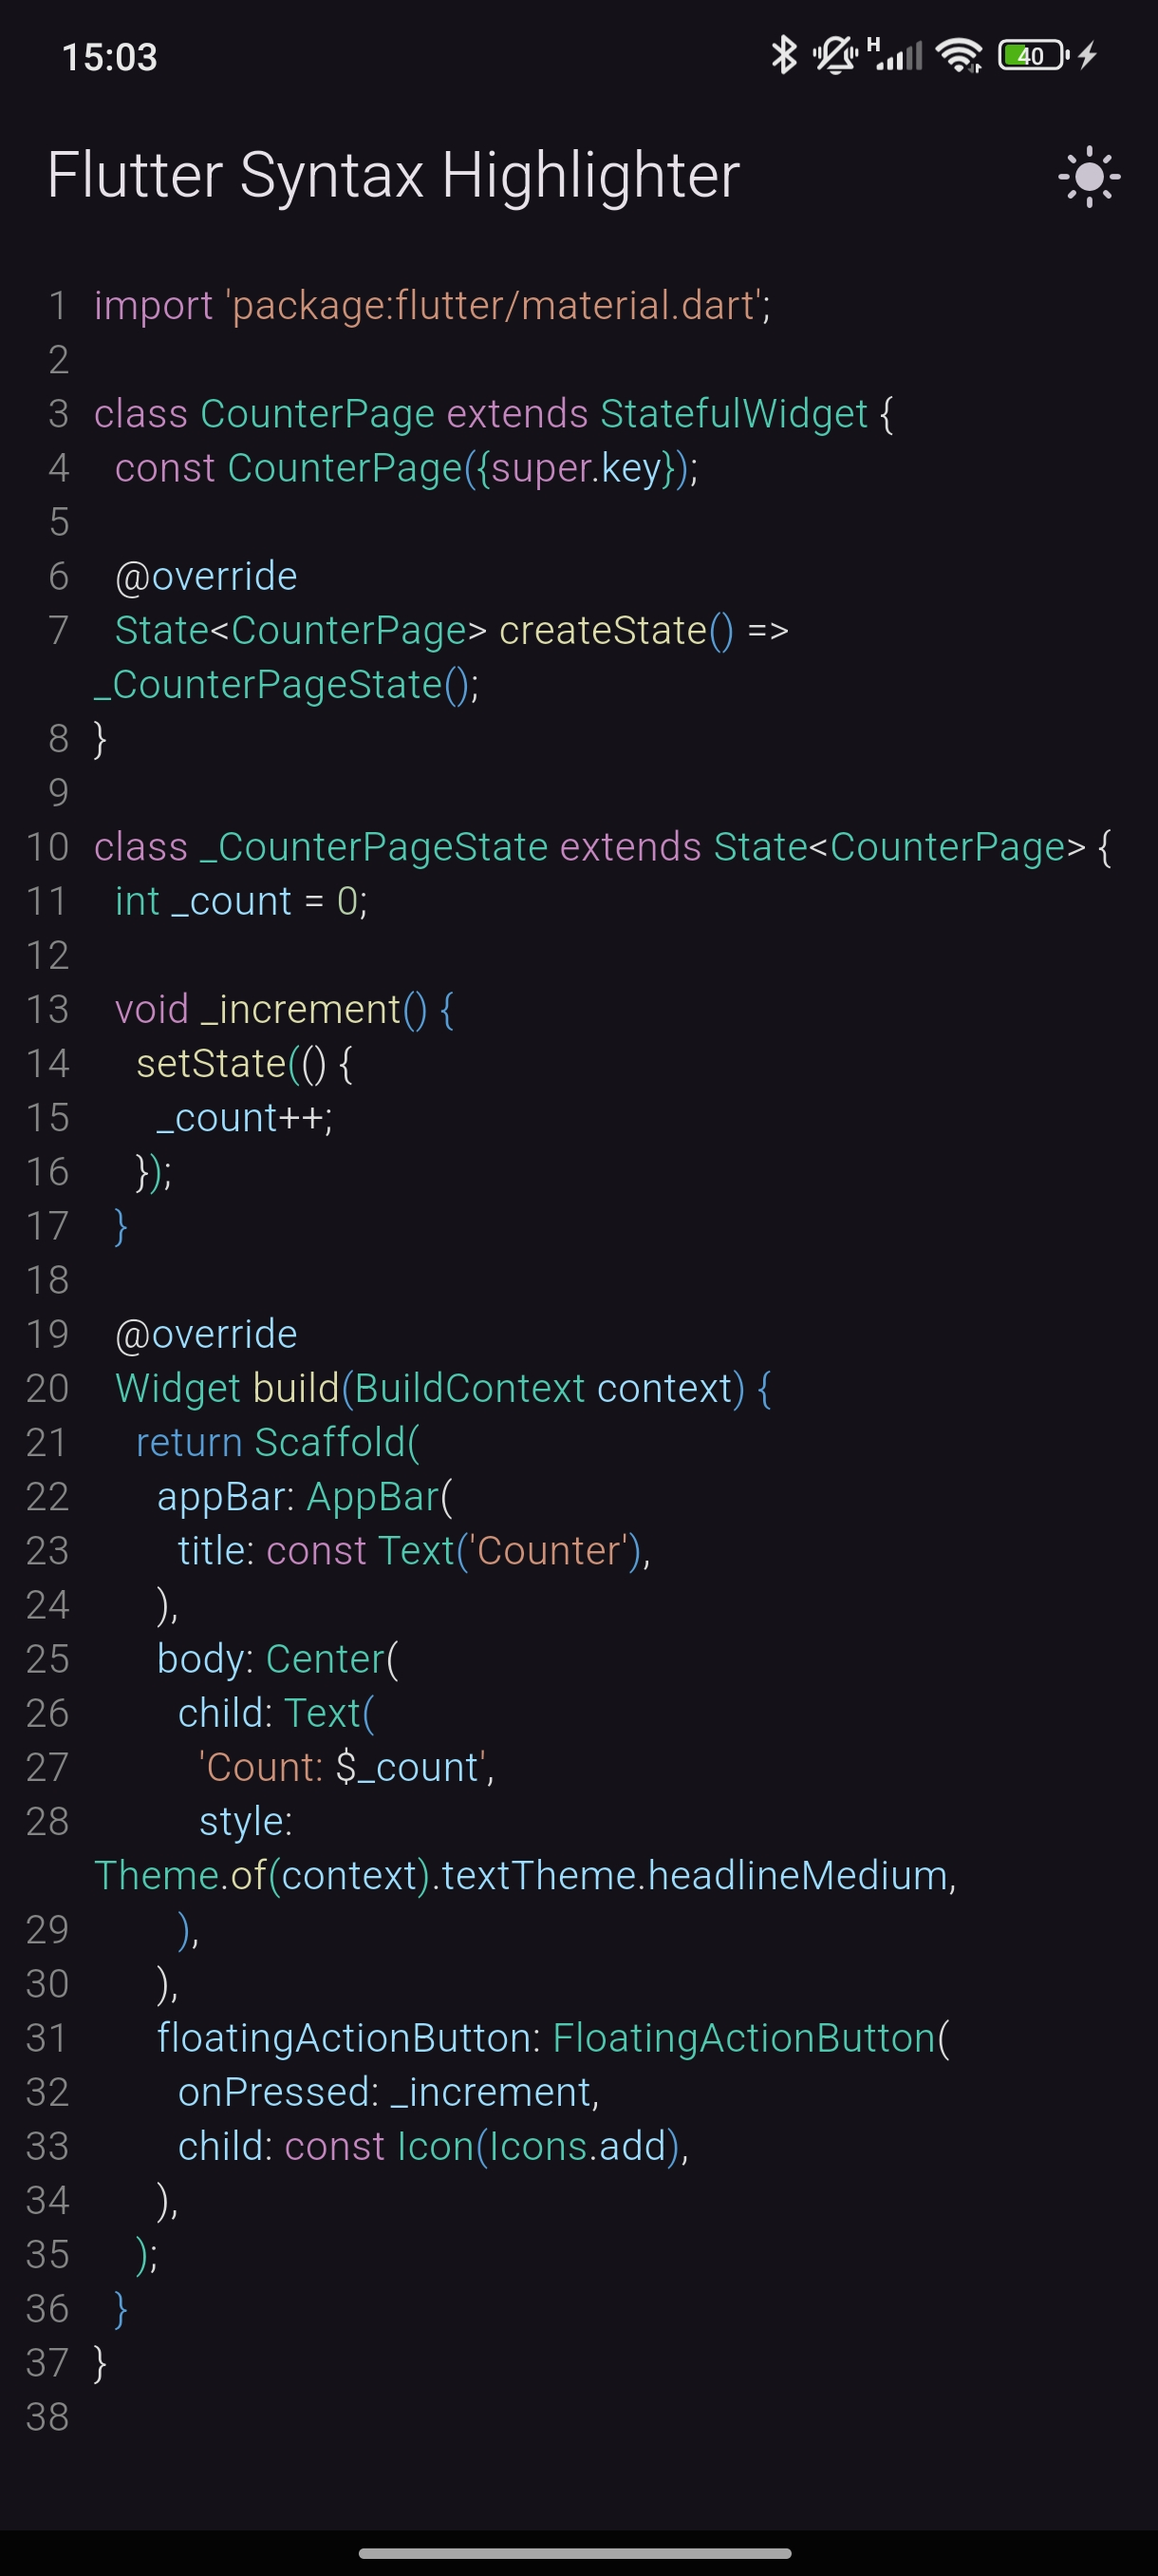
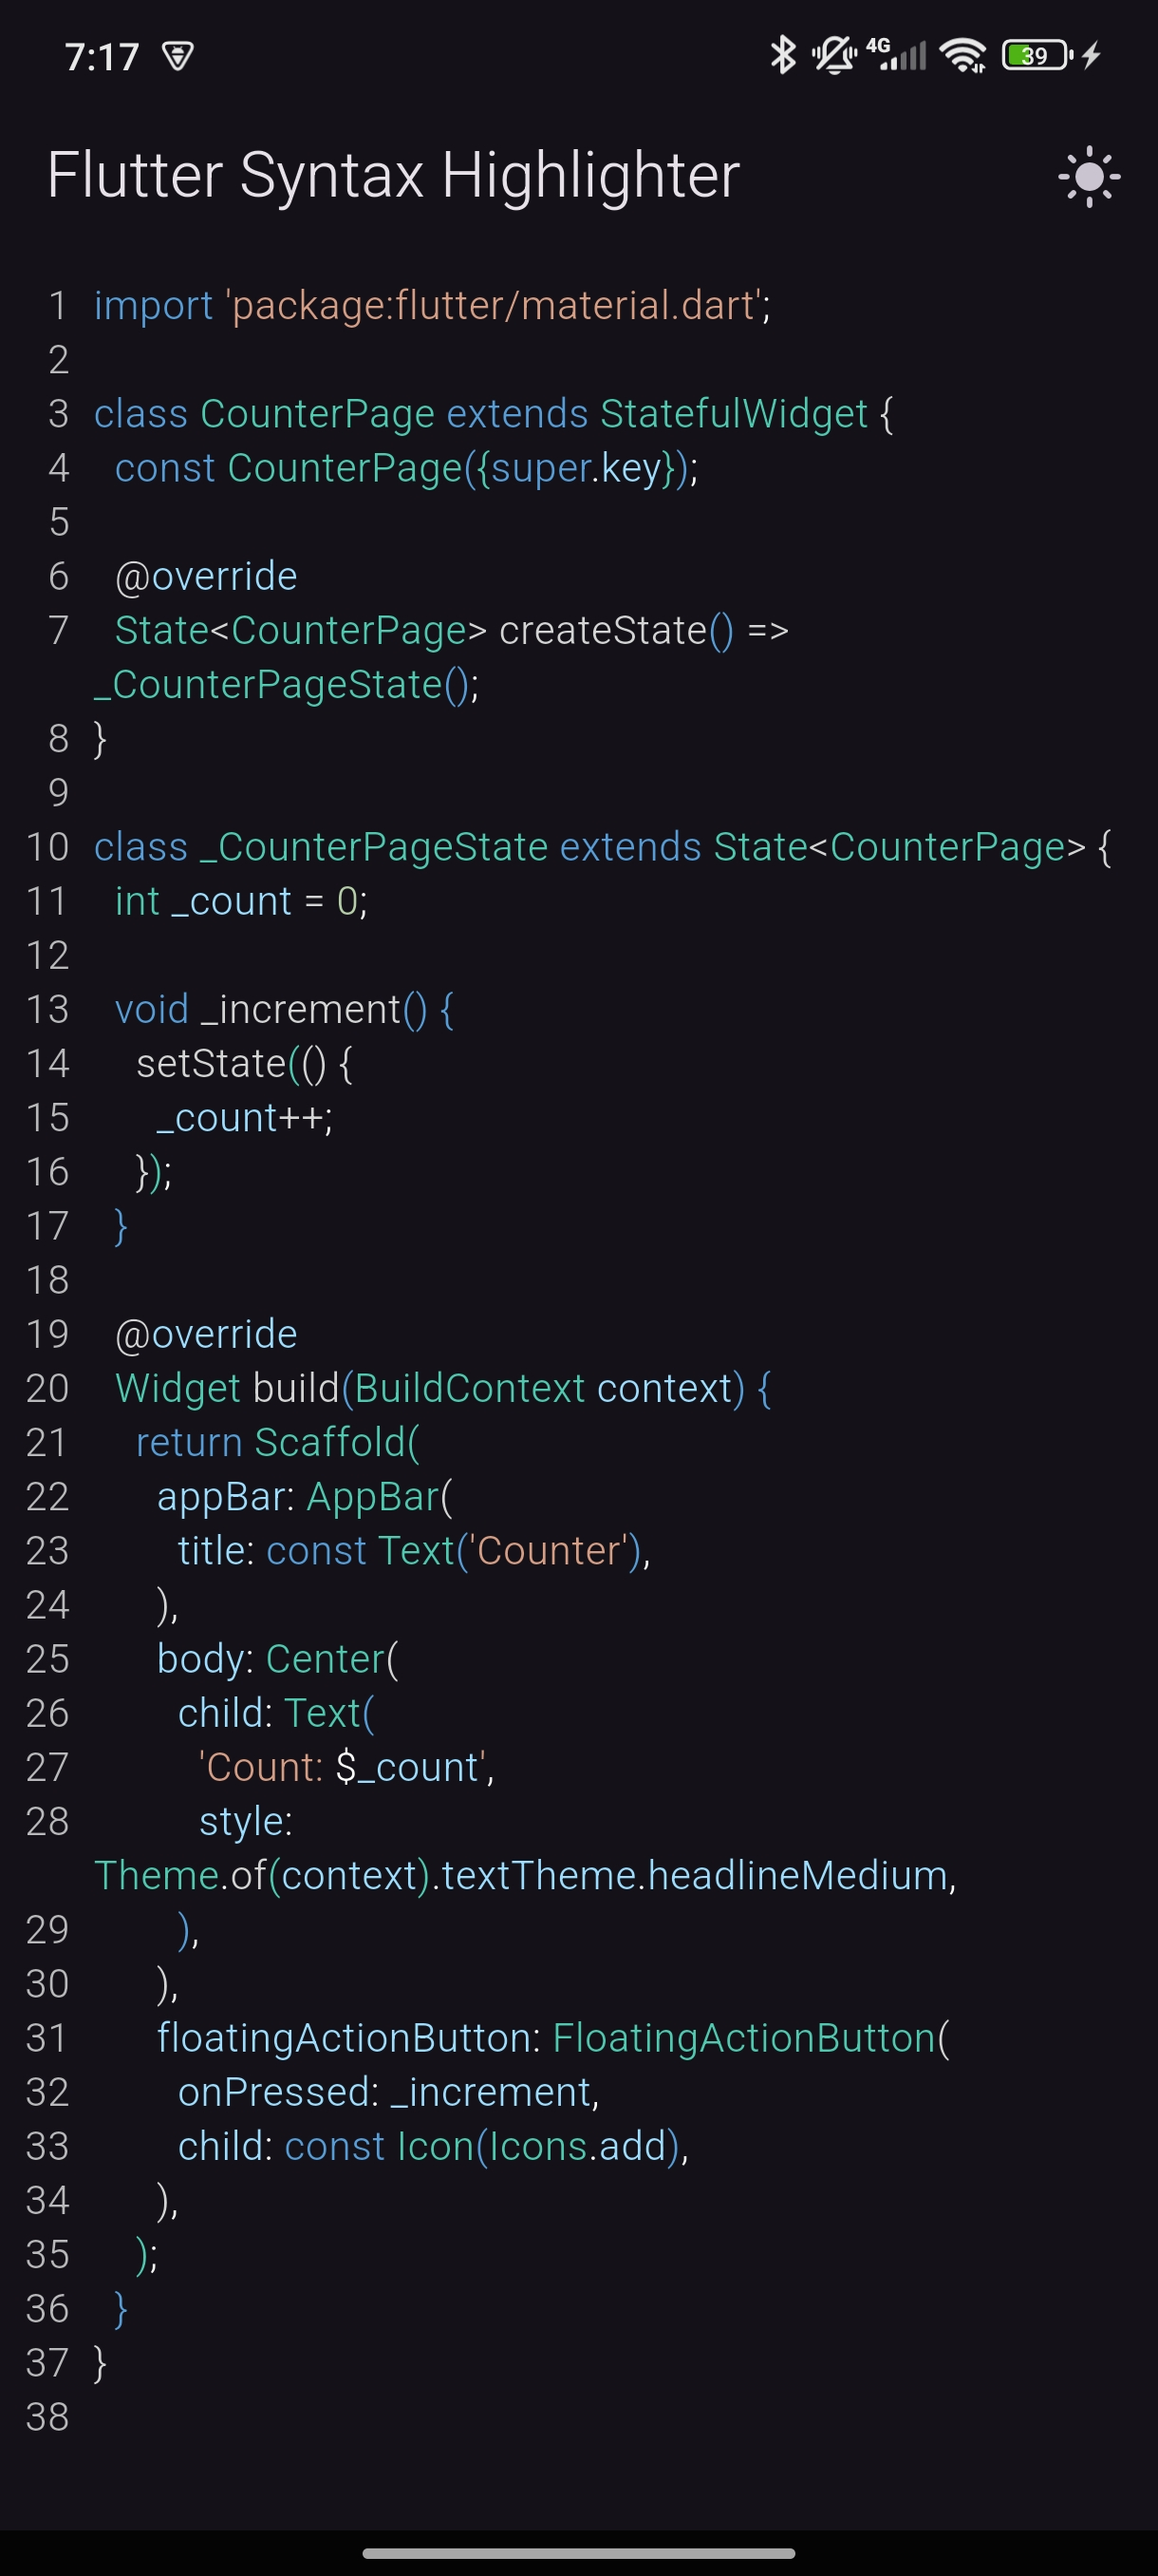
fix: corrected default VS Code theme colors
- Fixed the color scheme for the default light and dark VS Code themes.

diff --git a/lib/src/themes/vs_code_dark_theme.dart b/lib/src/themes/vs_code_dark_theme.dart
@@ -1,25 +1,24 @@
 import 'package:flutter/material.dart';
-
 import 'package:flutter_syntax_highlighter/src/syntax_color_schema.dart';
 
 class VSCodeDarkTheme extends SyntaxColorSchema {
   const VSCodeDarkTheme()
-    : super(
-        baseStyle: const Color(0xFFDCDCDC),
-        lineNumberStyle: const Color(0xFF858585),
-        keywordStyle: const Color(0xFF569CD6),
-        specialKeywordStyle: const Color(0xFFC586C0),
-        storageModifierStyle: const Color(0xFF569CD6),
-        typeStyle: const Color(0xFF4EC9B0),
-        functionStyle: const Color(0xFFDCDCAA),
-        literalStyle: const Color(0xFF569CD6),
-        commentStyle: const Color(0xFF6A9955),
-        punctuationStyle: const Color(0xFFDCDCDC),
-        stringStyle: const Color(0xFFCE9178),
-        numberStyle: const Color(0xFFB5CEA8),
-        bracket1Style: const Color(0xFFDCDCDC),
-        bracket2Style: const Color(0xFF569CD6),
-        bracket3Style: const Color(0xFF4EC9B0),
-        variableStyle: const Color(0xFF9CDCFE),
-      );
+      : super(
+          baseStyle: const Color(0xFFD4D4D4),
+          lineNumberStyle: const Color.fromARGB(179, 255, 255, 255),
+          keywordStyle: const Color(0xFF569CD6),
+          specialKeywordStyle: const Color(0xFF569CD6),
+          storageModifierStyle: const Color(0xFF569CD6),
+          typeStyle: const Color(0xFF4EC9B0),
+          functionStyle: const Color(0xFFD4D4D4),
+          literalStyle: const Color(0xFFD4D4D4),
+          commentStyle: const Color(0xFF6A9955),
+          punctuationStyle: const Color(0xFFFFFFFF),
+          stringStyle: const Color(0xFFD69D85),
+          numberStyle: const Color(0xFFB5CEA8),
+          bracket1Style: const Color(0xFFD4D4D4),
+          bracket2Style: const Color(0xFF569CD6),
+          bracket3Style: const Color(0xFF4EC9B0),
+          variableStyle: const Color(0xFF9CDCFE),
+        );
 }

diff --git a/lib/src/themes/vs_code_light_theme.dart b/lib/src/themes/vs_code_light_theme.dart
@@ -5,13 +5,13 @@ class VSCodeLightTheme extends SyntaxColorSchema {
   const VSCodeLightTheme()
     : super(
         baseStyle: const Color(0xFF000000),
-        lineNumberStyle: const Color(0xFF858585),
+        lineNumberStyle: const Color.fromARGB(179, 0, 0, 0),
         keywordStyle: const Color(0xFF0000FF),
         specialKeywordStyle: const Color(0xFF0000FF),
-        storageModifierStyle: const Color(0xFFAF00DB),
+        storageModifierStyle: const Color(0xFF0000FF),
         typeStyle: const Color(0xFF267F99),
-        functionStyle: const Color(0xFF795E26),
-        literalStyle: const Color(0xFF0000FF),
+        functionStyle: const Color(0xFF000000),
+        literalStyle: const Color(0xFF000000),
         commentStyle: const Color(0xFF008000),
         punctuationStyle: const Color(0xFF000000),
         stringStyle: const Color(0xFFA31515),
@@ -19,6 +19,6 @@ class VSCodeLightTheme extends SyntaxColorSchema {
         bracket1Style: const Color(0xFF000000),
         bracket2Style: const Color(0xFF0000FF),
         bracket3Style: const Color(0xFF267F99),
-        variableStyle: const Color(0xFF001080),
+        variableStyle: const Color(0xFF0070C1),
       );
 }
